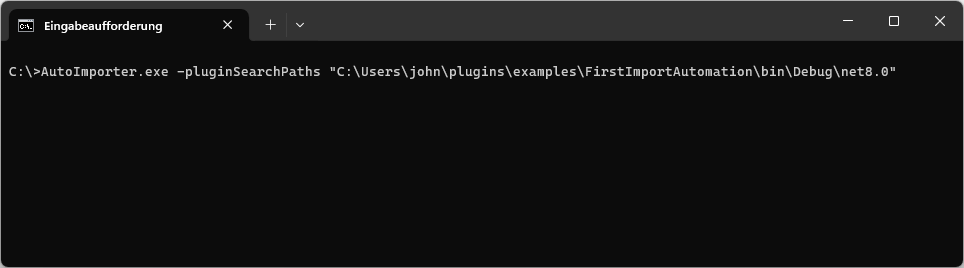
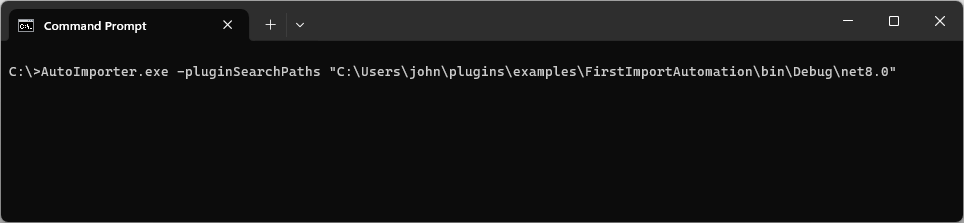
refactor: Complete rewrite of setup section

diff --git a/docs/setup/3_piweb_auto_importer.md b/docs/setup/3_piweb_auto_importer.md
@@ -9,7 +9,7 @@ title: PiWeb Auto Importer
 
 Import plug-ins extend the built-in functionality of *PiWeb Auto Importer* either by implementing an additional type of import automation or by implementing an additional import format for the built-in file based import automation. 
 
-A single instance of the *PiWeb Auto Importer* can run and control any number of import automations. Each import automation is configured by an import plan and can be run and controlled independantly. In order to test an import plug-in, we need to do two things: Firstly, we need to make the plug-in known to the *PiWeb Auto Importer* and secondly, we need to create, configure and run a suitable import plan that uses the plug-in.
+A single instance of the *PiWeb Auto Importer* can run and control any number of import automations. Each import automation is configured by an import plan and can be run and controlled independently. In order to test an import plug-in, we need to do two things: Firstly, we need to make the plug-in known to the *PiWeb Auto Importer* and secondly, we need to create, configure and run a suitable import plan that uses the plug-in.
 
 In this document we will show you how to generally setup and prepare the *PiWeb Auto Importer* for testing plug-ins. Later when developing our first plug-ins in [Gettings started]({% link docs/getting_started/index.md %}), we will also show you how to actually run these plug-ins using *PiWeb Auto Importer*. 
 
@@ -17,24 +17,39 @@ In this document we will show you how to generally setup and prepare the *PiWeb 
 For more information about the different plug-in types and how they are used by *PiWeb Auto Importer*, see [Plug-in types]({% link docs/plugin_fundamentals/2_plugin_type.md %}).
 
 ## Plug-in search paths
-Import plug-ins are usually installed via *.pip* files to a specific plug-in installation folder. However, since the plug-in installation is system wide, administrator privileges would be required for each change. At the customer side this is desired for security reasons, however, this is not practical for plug-in development at all. For this reason, *PiWeb Auto Importer* has a special development mode that allows to load plug-ins from custom locations. To activate this development mode, you need to create a specific value in the windows registry:
+Import plug-ins are usually installed via *.pip* files to a specific plug-in installation folder. However, since the plug-in installation is system wide, administrator privileges would be required for each change. At the customer side this is desired for security reasons, however, this is not practical for plug-in development at all. For this reason, *PiWeb Auto Importer* has a special development mode that allows to load plug-ins from custom unprivileged locations. To activate the development mode, you need to create a specific value in the windows registry:
 
-In `HKEY_LOCAL_MACHINE\SOFTWARE\Zeiss\PiWeb\AutoImporter`, if it does not yet exist, create a new **string** value `DevelopmentMode`. Set it to `true`.
+In `HKEY_LOCAL_MACHINE\SOFTWARE\Zeiss\PiWeb\AutoImporter`, if it does not yet exist, create a new *string* value `DevelopmentMode` and set it to `true`.
 
 ![Editing development mode in Windows registry editor](../../assets/images/setup/regedit_development_mode.png "Editing development mode in Windows registry editor"){: .framed }
 
-If this is done correctly, PiWeb Auto Importer will now show [Development mode] in its title bar.
+*PiWeb Auto Importer* will now show [Development mode] in its title bar.
 
 ![Active development mode in PiWeb Auto Importer](../../assets/images/setup/titlebar_development_mode.png "Active development mode in Auto Importer"){: .bare }
 
-With active development mode, it is now possible to specify additional plug-in search paths via command line parameter <span class="nowrap">`-pluginSearchPaths`</span> when starting the *PiWeb Auto Importer*. The typical usage of this parameter is to set the plug-in search path directly to the output folder of your plug-in project.
+With active development mode, it is possible to specify additional plug-in search paths via command line parameter <span class="nowrap">`-pluginSearchPaths`</span> when starting *PiWeb Auto Importer*. The typical usage of this parameter is to set the plug-in search path directly to the output folder of your plug-in project.
 
-![Active development mode in PiWeb Auto Importer](../../assets/images/setup/cmd_plugin_search_path.png "Active development mode in Auto Importer"){: .bare }
+![PiWeb Auto Importer command line example](../../assets/images/setup/cmd_plugin_search_path.png "PiWeb Auto Importer command line example"){: .bare }
+
+## Plug-in management
+To see whether plug-ins in custom search paths are found, you can compile one of the example plugins, use its build output path as custom search path and open the plugin management view.
+
+![Plugins in the file menu](../../assets/images/setup/file_menu_plugins.png "Plugins in the file menu"){: .bare }
+
+![Plugin management](../../assets/images/setup/plugin_management.png "Plugin management"){: .bare }
+
+{: .note }
+Plug-ins from custom search paths cannot be uninstalled like regular installed plug-ins.
 
 ## Import plans
-  
+The last step of setting up *PiWeb Auto Importer* is to create and configure an import plan we can run. A new import plan can easily be created by clicking the green plus icon in the toolbar. If there are no import plans created so far, you can use the displayed link to create the a first import plan instead. You can now enter a name for the newly created import plan or just keep the default name.
 
-TBD:
-- Create import plan
-- Choose target connection 
-- Authentication
+![Create new default import plan](../../assets/images/setup/create_default_import_plan.png "Create new default import plan"){: .bare }
+
+Most of the default settings of the import plan are fine, however, it is still missing a valid import target. Use the "Select connection" button to choose an import target. The import target must be a running *PiWeb backend*, see [PiWeb backend]({% link docs/setup/2_piweb_backend.md %}) for your options to set one up.
+
+![Plugin management](../../assets/images/setup/select_connection.png "Plugin management"){: .framed }
+
+Depending on your chosen import target, you may also need to authenticate at the import target. When everything is working correctly, the connection status should now be 'Ready'.
+
+This is all the basic setup you need. In the next section [Getting started]({% link docs/getting_started/index.md %}), we will show you how to create, build an run your own plug-ins.
